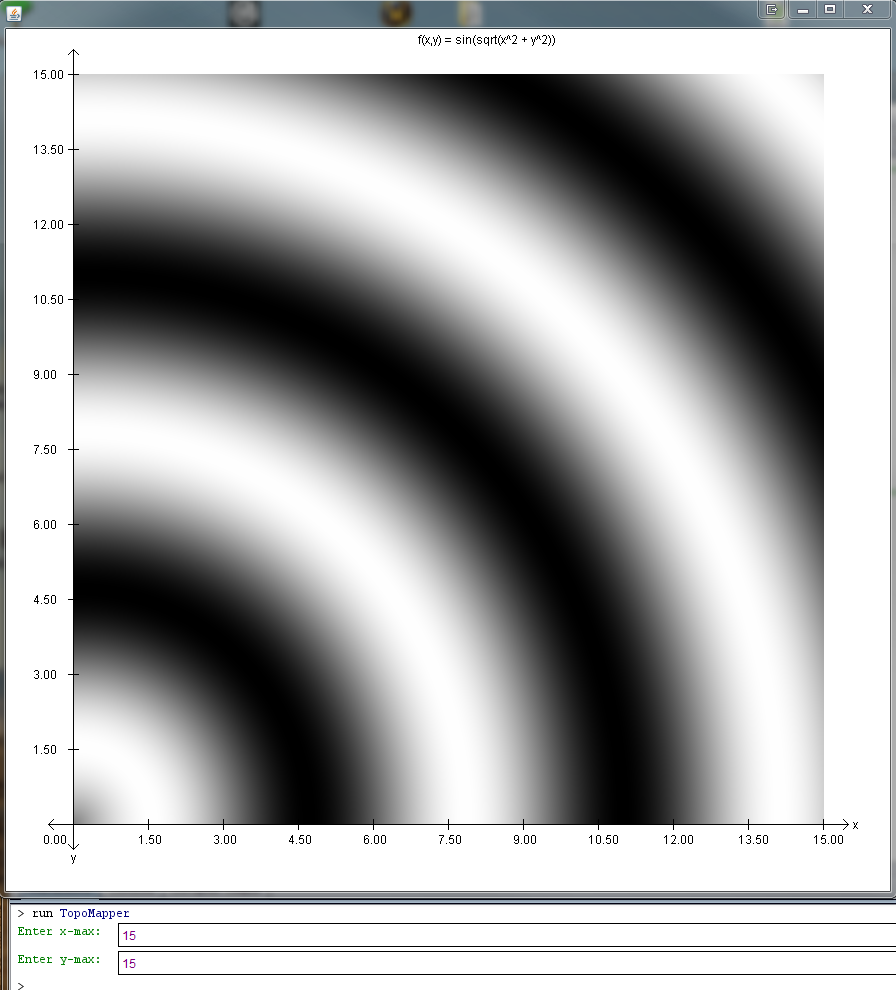
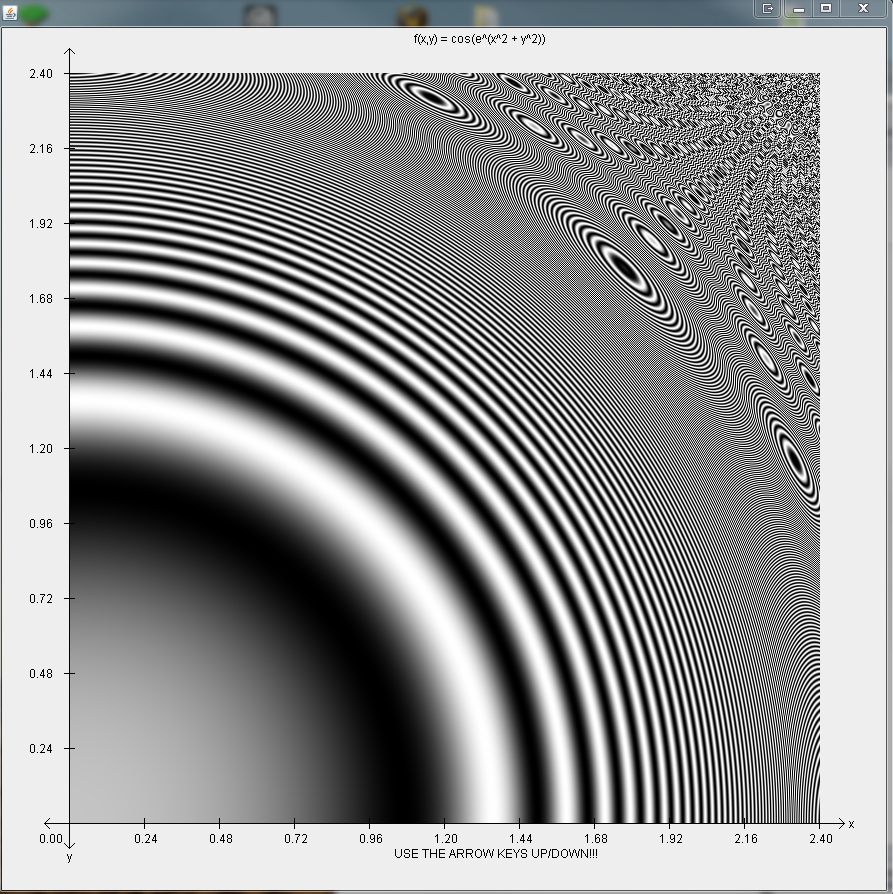
Key Bindings added.  Arrow keys (Up/Down) now adjust the domain.

diff --git a/TopoMapper/TopoMapper.java b/TopoMapper/TopoMapper.java
@@ -9,21 +9,17 @@
 //     RGB = (255,255,255)  (white) is the maximum value on the domain
 //     All other values of f(x,y) are displayed proportionally in the range [0,255]
 // 
-// INPUT:    xMax - domain maximum             (prompted by program)
-//           yMax - range maximum              (prompted by program)
-//           function f(x,y) [code input line 30]
+// INPUT:    Function f(x,y) [code input line 26]
 //
-// OUTPUT:   function mapped above cartesian plane; domain displayed is:
-//                   x in [0,xMax]
-//                   y in [0,yMax]
-// 
+// OUTPUT:   Topographical representation mapped on the Cartesian Plane
+//           Keybindings: UP and DOWN arrow keys change the domain
 //************************************************************************************************************
 
 import javax.swing.*;
 import java.awt.*;
-import java.util.Scanner;
+import java.awt.event.*;
 
-public class TopoMapper extends JFrame {
+public class TopoMapper extends JFrame {  
   //  USER INPUT!!!!!!!!!!!!!!!!!!!!!!!!!!!!!!!!!!!!!!!!!!!
   // ******************** SET f(x,y) **********************
   public static double f(double x, double y) {
@@ -33,13 +29,6 @@ public class TopoMapper extends JFrame {
   //*******************************************************
   //!!!!!!!!!!!!!!!!!!!!!!!!!!!!!!!!!!!!!!!!!!!!!!!!!!!!!!!
   
-  public TopoMapper() {
-    setDefaultCloseOperation(JFrame.EXIT_ON_CLOSE);
-    setSize(900,900);
-    setBackground(Color.white);
-    setVisible(true);
-  }
-  
   public static double xMax;
   public static double yMax;
   public static double currentX;
@@ -47,85 +36,23 @@ public class TopoMapper extends JFrame {
   public static double mapMax = 0;
   public static double mapMin = 0;
   
-  public static double pixelToX (int i) {  // Transform from x (pixel space) to x (in domain)
-    return ((i - 75) / 750.0) * xMax;
-  }
- 
-  public static double pixelToY (int j) {  // Transform from y (pixel space) to y (in domain)
-    return ((825 - j) / 750.0) * yMax;
-  }
-  
-  
-  public void paint(Graphics g) {
-  Color point = new Color(0,0,0);
-   
-  
-  // Iterate through entire pixel space on domain and plot the value of f(x,y)
-   for(int i = 75; i <= 825; i++) {
-     for(int j = 75; j <= 825; j++) {
-       int iRGB = (int)(((f(pixelToX(i), pixelToY(j)) - mapMin) / (mapMax - mapMin)) * 255);
-       point = new Color(iRGB, iRGB, iRGB);
-       g.setColor(point);
-       g.drawLine(i,j,i,j);
-     }
-   }   
-   
-   // Set up x- and y-axis such that Origin = (75,825)
-   //*****************************************************************
-   g.setColor(Color.black);
-   g.drawLine(50,825,850,825);     // x-axis
-   g.drawLine(50,825,55,820);      // x-axis arrows
-   g.drawLine(50,825,55,830);
-   g.drawLine(845,820,850,825);
-   g.drawLine(845,830,850,825);
-   g.drawString("x", 855,830);     // label "x"
-   
-   
-   g.drawLine(75,50,75,850);       // y-axis
-   g.drawLine(70,55,75,50);        // y-axis arrows
-   g.drawLine(75,50,80,55);
-   g.drawLine(70,845,75,850);
-   g.drawLine(75,850,80,845);
-   g.drawString("y", 73,863);      // label "y"
-   
-   g.drawString("f(x,y) = " + f, 420,45);  // label f(x,y)
-  
-   
-   // Add tick marks and label them
-   for (int i = 0; i<=10; i++) {
-     g.drawLine((75 + i*75),820,(75 + i*75),830);    // add tick marks on x-axis
-     g.drawLine(70, (75 + i*75),80,(75 + i*75));     // add tick marks on y-axis
-     currentX =  i*xMax/10;                          // current x-position
-     currentY = yMax - i*yMax/10;                    // current y-position
-     
-     // label x-ticks
-     if (i==0) {
-       g.drawString(String.format("%.2f", currentX), 45, 845);
-     }
-     else {
-       g.drawString(String.format("%.2f", currentX), 65 + i*75, 845);
-     }
-     
-     // label y-ticks
-     if (i==10) {continue;}                           // avoid redundant origin labeling
-     else {
-     g.drawString(String.format("%.2f", currentY), 35, 80 + i*75);
-     }
-   }
-   //*****************************************************************
-   
-   
-  }
- 
- public static void main(String[] args) throws Exception{
-   Scanner s = new Scanner(System.in);
-   
-   System.out.print("Enter x-max: ");                 // prompt domain maximum
-   xMax = s.nextDouble();                             // set domain max
-   System.out.print("Enter y-max: ");                 // prompt range maximum
-   yMax = s.nextDouble();                             // set range max
-   
-   for(int i = 75; i <= 825; i++) {                   // Determine extrema on the domain
+  // Constructor Method for TopoMapper Object
+  public TopoMapper() {
+    setDefaultCloseOperation(JFrame.EXIT_ON_CLOSE);
+    setSize(900,900);
+    setBackground(Color.white);
+    setVisible(true);
+    
+   // Use Key Bindings to scale the domain
+    JRootPane rootPane = getRootPane();
+    rootPane.getInputMap(JComponent.WHEN_IN_FOCUSED_WINDOW).put(KeyStroke.getKeyStroke(KeyEvent.VK_UP, 0), "Up");
+    rootPane.getActionMap().put("Up", new ScaleAction(0));
+    
+    rootPane.getInputMap(JComponent.WHEN_IN_FOCUSED_WINDOW).put(KeyStroke.getKeyStroke(KeyEvent.VK_DOWN, 0), "Down");
+    rootPane.getActionMap().put("Down", new ScaleAction(1));
+    
+    // Determine extrema on the domain
+    for(int i = 75; i <= 825; i++) {                   
      for(int j = 75; j <= 825; j++) {
        if (f(pixelToX(i), pixelToY(j)) > mapMax) {
          mapMax = f(pixelToX(i), pixelToY(j));
@@ -135,8 +62,110 @@ public class TopoMapper extends JFrame {
        }
      }
    }
+  }
+  
+  // Define the methods to be used when a keybinding is executed
+  private class ScaleAction extends AbstractAction {
+        int direction;
 
-   TopoMapper m = new TopoMapper();
+        ScaleAction(int direction) {
+            this.direction = direction;
+        }
+
+        @Override
+        public void actionPerformed(ActionEvent e) {
+          // Up Arrow makes the domain smaller to "zoom in"
+          if (direction == 0) {
+            xMax *= 0.8;
+            yMax *= 0.8;
+            repaint();
+          }
+          // Down arrow makes the domain larger to "zoom out"
+          if (direction == 1) {
+            xMax *= 1.2;
+            yMax *= 1.2;
+            repaint();
+          }
+        }
+  }
+  
+  // Transform from x (pixel space) to x (in domain)
+  public static double pixelToX (int i) {
+    return ((i - 75) / 750.0) * xMax;
+  }
+ 
+  // Transform from y (pixel space) to y (in domain)
+  public static double pixelToY (int j) {
+    return ((825 - j) / 750.0) * yMax;
+  }
+  
+  
+  // Paint the graphics
+  public void paint(Graphics g) {
+    super.paint(g);                        // Clear the panel
+    Color point = new Color(0,0,0);
+  
+    // Iterate through entire pixel space on domain and plot the value of f(x,y)
+    for(int i = 75; i <= 825; i++) {
+      for(int j = 75; j <= 825; j++) {
+        int iRGB = (int)(((f(pixelToX(i), pixelToY(j)) - mapMin) / (mapMax - mapMin)) * 255);
+        point = new Color(iRGB, iRGB, iRGB);
+        g.setColor(point);
+        g.drawLine(i,j,i,j);
+      }
+    }   
+   
+    // Set up x- and y-axis such that Origin = (75,825)
+    //*****************************************************************
+    g.setColor(Color.black);
+    g.drawLine(50,825,850,825);     // x-axis
+    g.drawLine(50,825,55,820);      // x-axis arrows
+    g.drawLine(50,825,55,830);
+    g.drawLine(845,820,850,825);
+    g.drawLine(845,830,850,825);
+    g.drawString("x", 855,830);     // label "x"
+   
+    g.drawLine(75,50,75,850);       // y-axis
+    g.drawLine(70,55,75,50);        // y-axis arrows
+    g.drawLine(75,50,80,55);
+    g.drawLine(70,845,75,850);
+    g.drawLine(75,850,80,845);
+    g.drawString("y", 73,863);      // label "y"
+   
+    g.drawString("f(x,y) = " + f, 420,45);  // label f(x,y)
+    g.drawString("USE THE ARROW KEYS UP/DOWN!!!", 400, 860);
+   
+    // Add tick marks and label them
+    for (int i = 0; i<=10; i++) {
+      g.drawLine((75 + i*75),820,(75 + i*75),830);    // add tick marks on x-axis
+      g.drawLine(70, (75 + i*75),80,(75 + i*75));     // add tick marks on y-axis
+      currentX =  i*xMax/10;                          // current x-position
+      currentY = yMax - i*yMax/10;                    // current y-position
+     
+      // label x-ticks
+      if (i==0) {
+        g.drawString(String.format("%.2f", currentX), 45, 845);
+      }
+      else {
+        g.drawString(String.format("%.2f", currentX), 65 + i*75, 845);
+      }
+     
+      // label y-ticks
+      if (i==10) {continue;}                           // avoid redundant origin labeling
+      else {
+        g.drawString(String.format("%.2f", currentY), 35, 80 + i*75);
+      }
+    }
+    //*****************************************************************
+  }
+ 
+ public static void main(String[] args) throws Exception{
+   // Test values to initiate domain
+   xMax = 2.0;
+   yMax = 2.0;
+   
+   // Create TopoMapper object; begin mapping
+   new TopoMapper();
  }
 }
 
